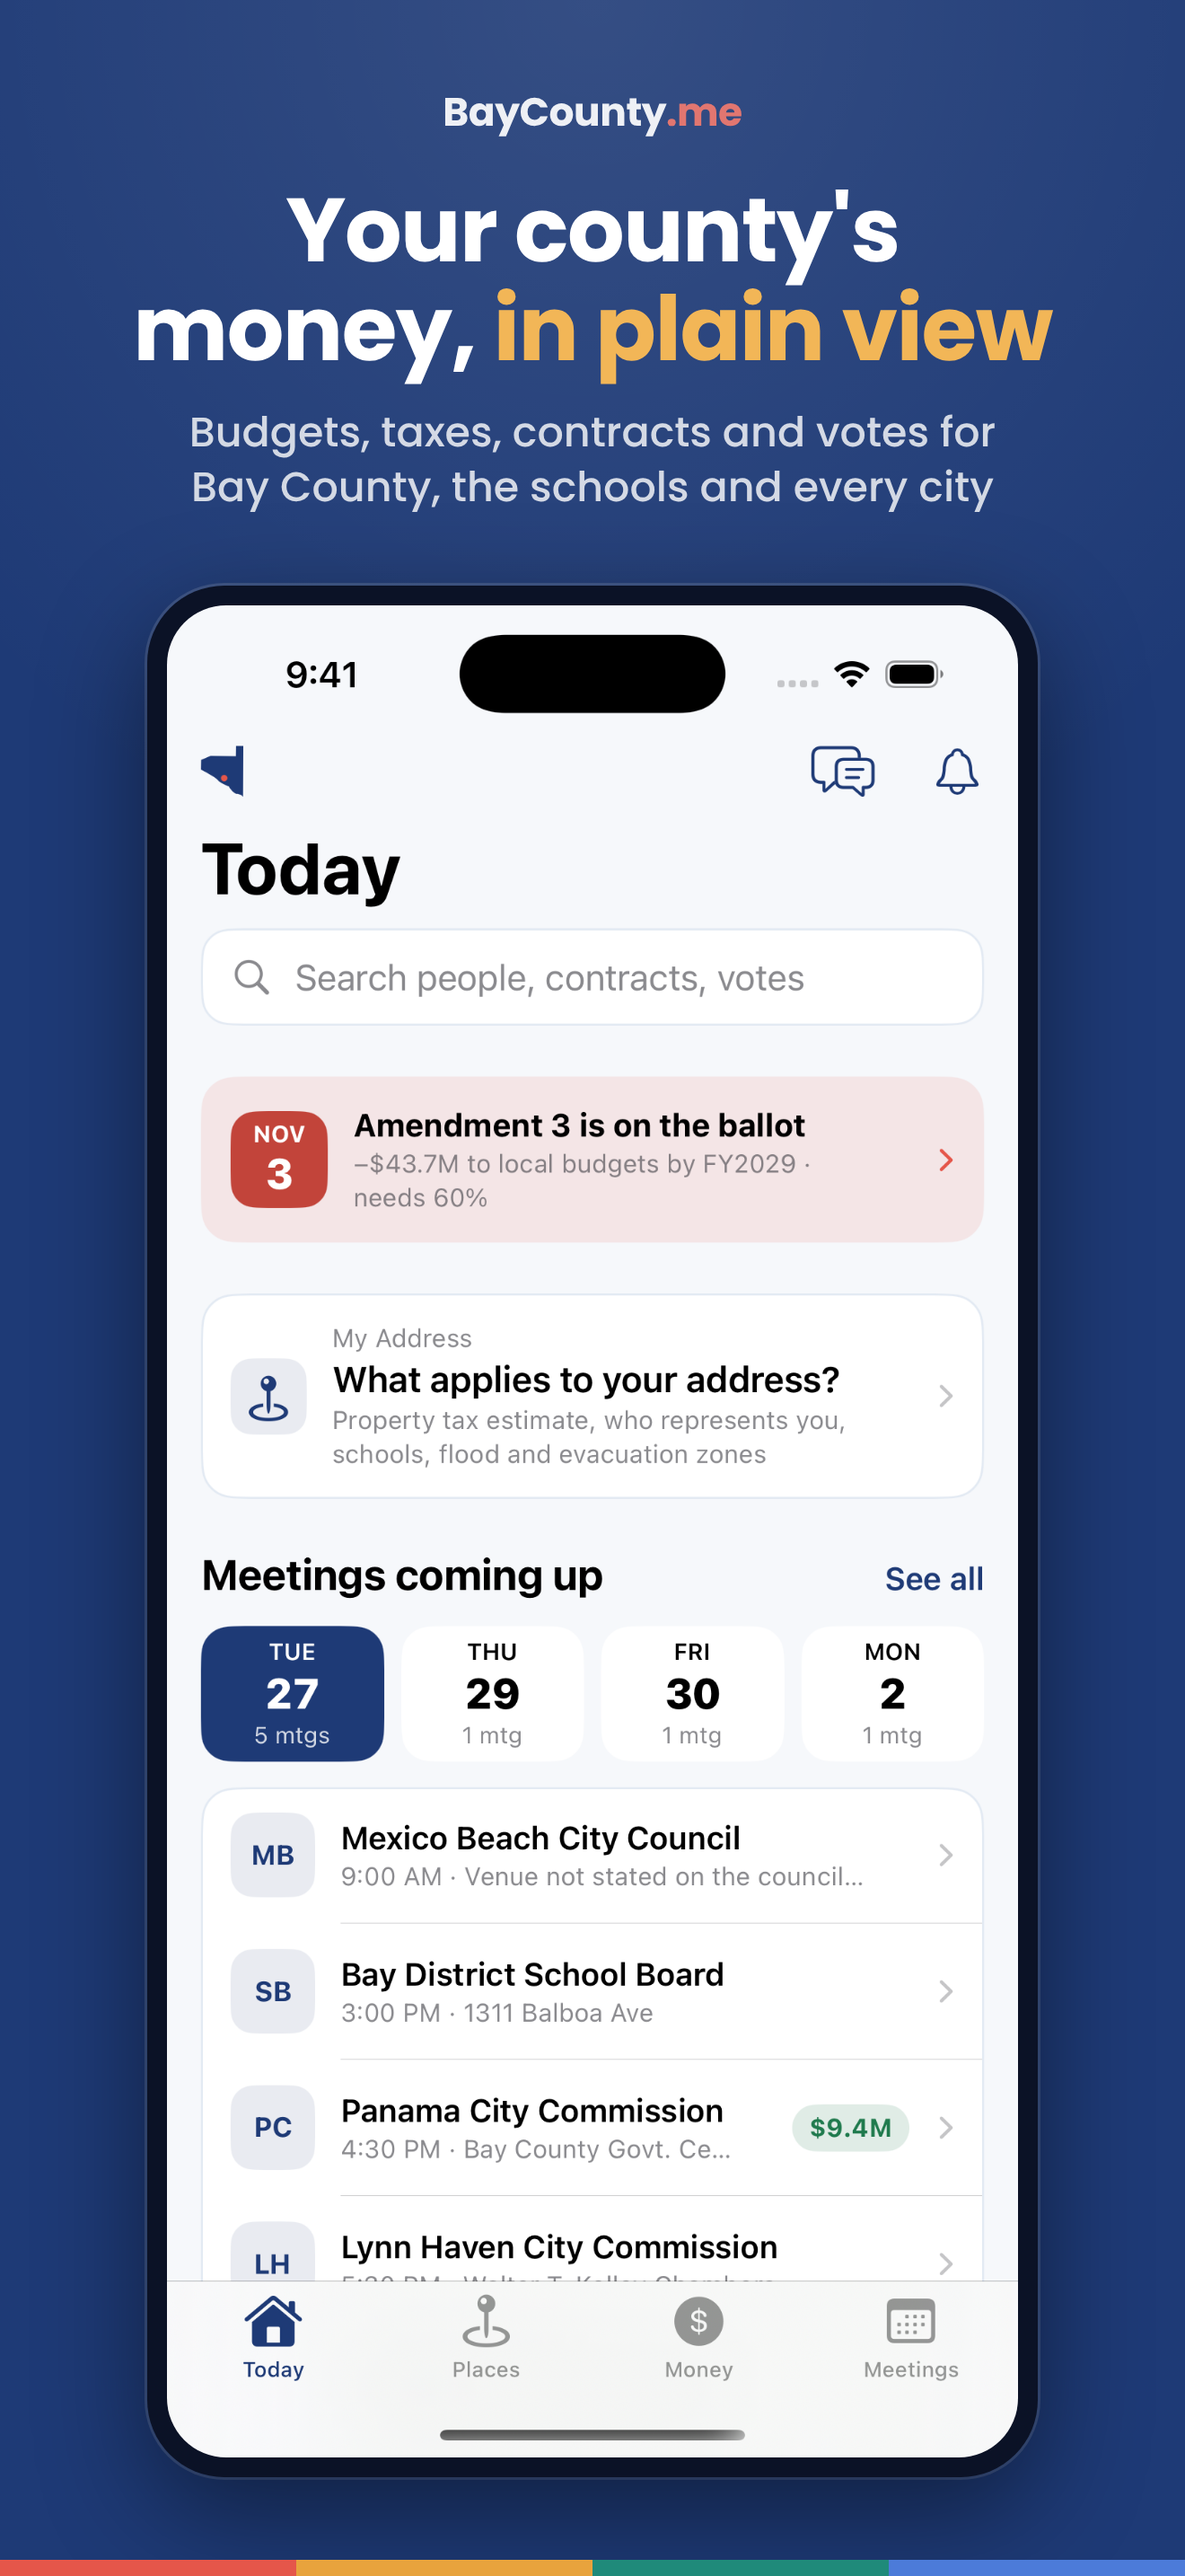
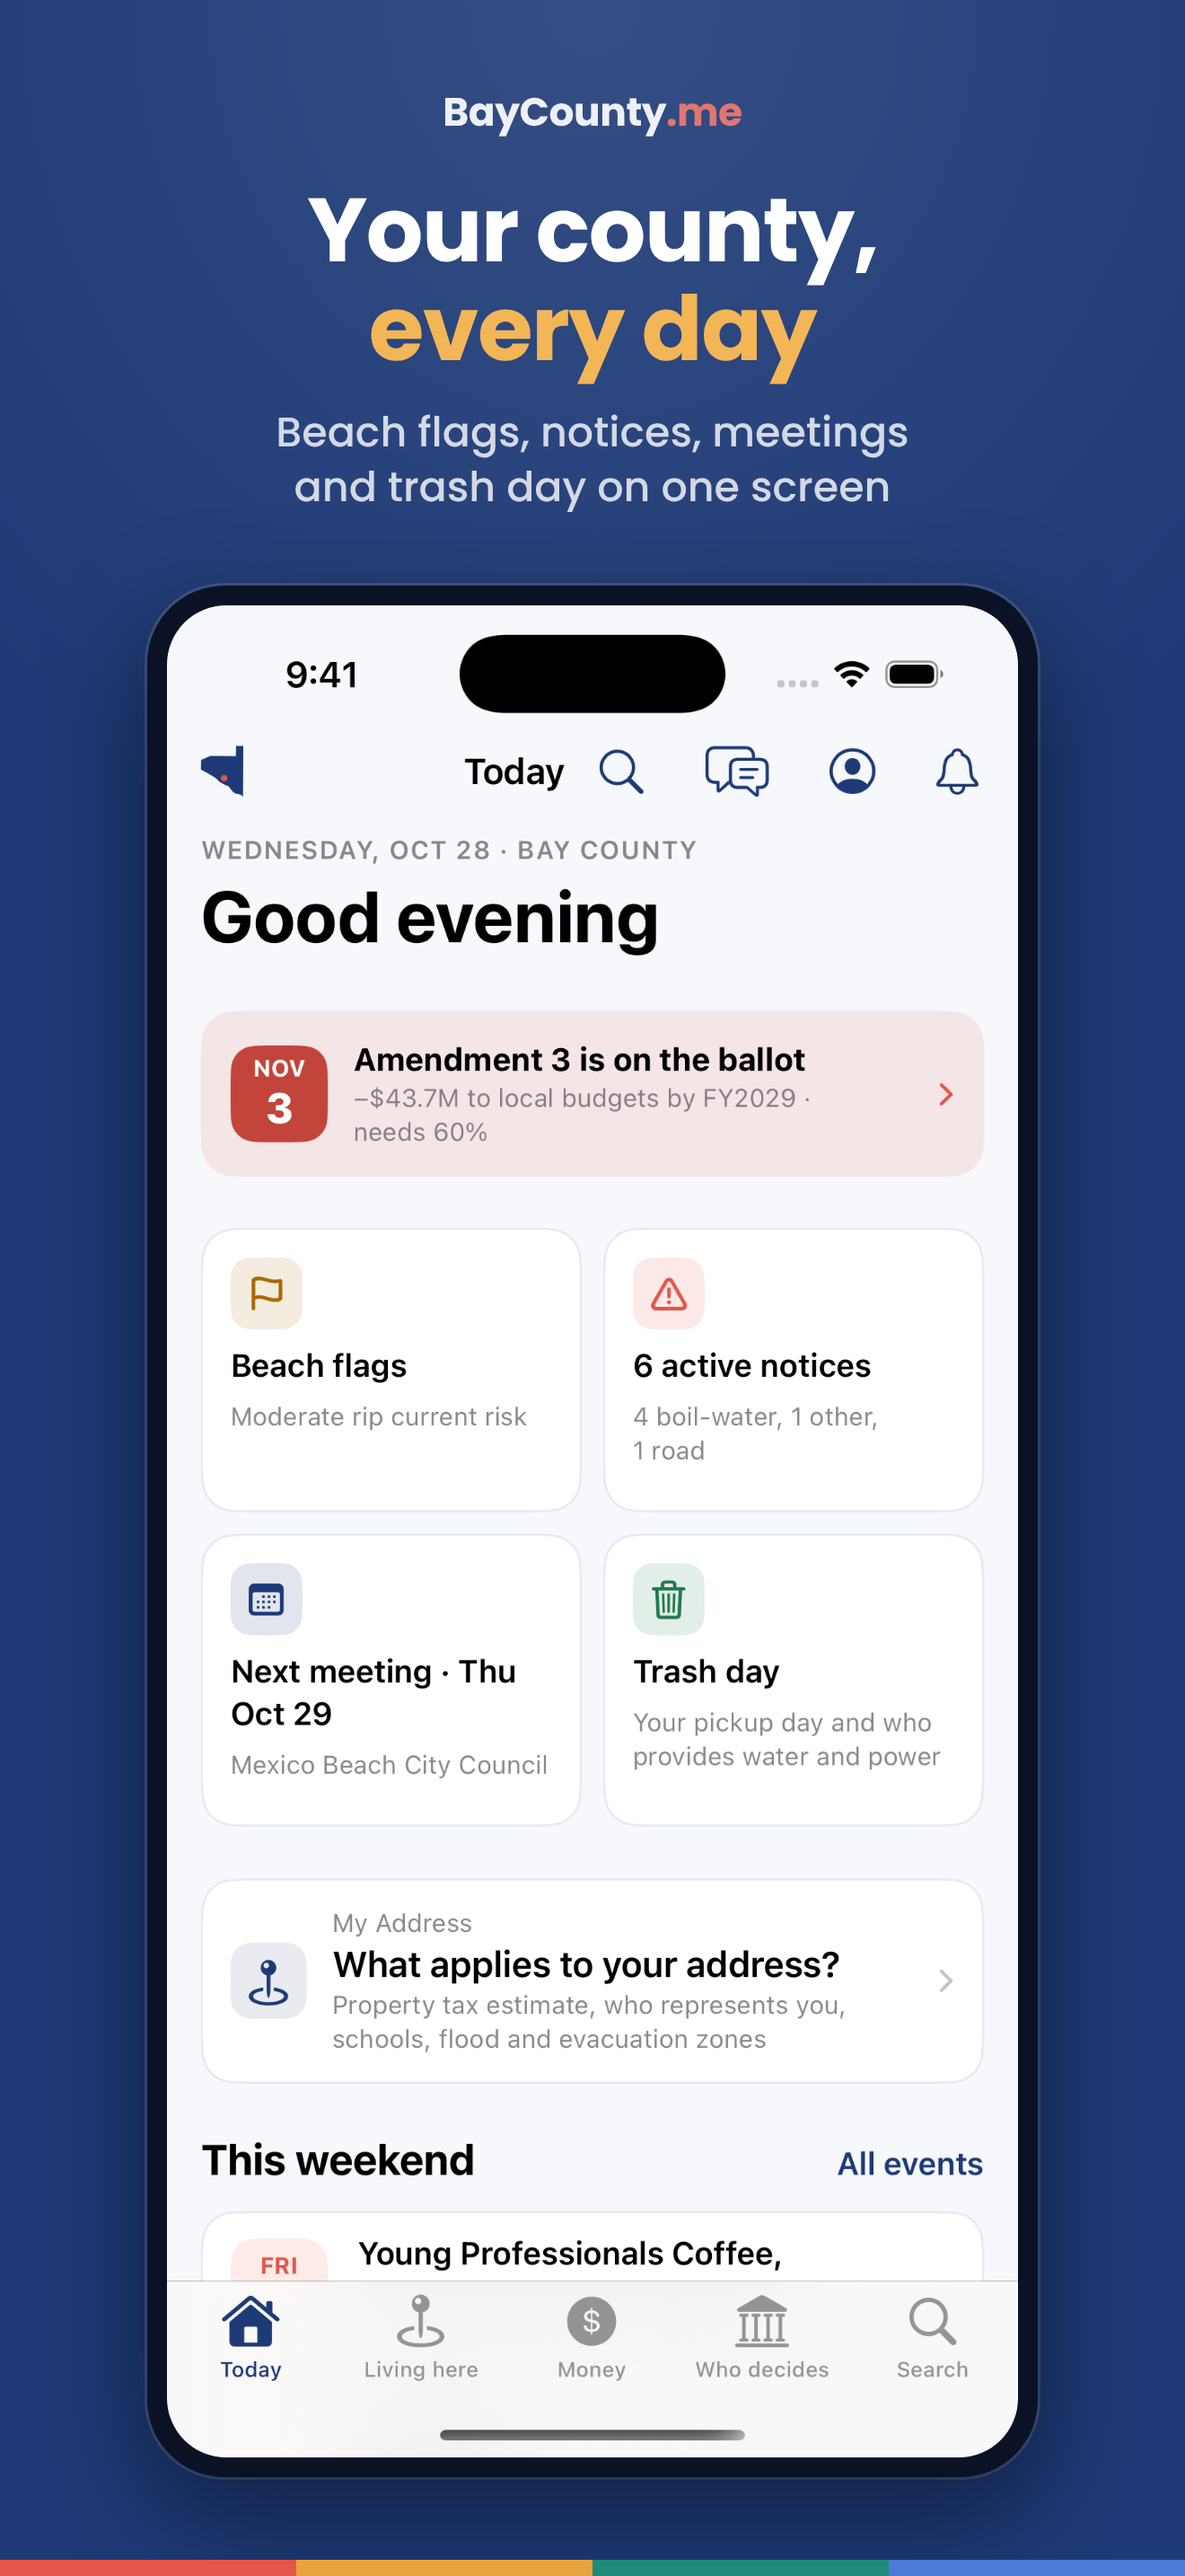
Store listings after the redesign: new description, subtitle, privacy answers and iPhone screenshots
- Description follows the new About page (My home, Living here, Your money, Who decides,
  Elections), same text on both stores; subtitle 'Everything Bay County, sourced'.
- App Privacy: the optional My home account collects email, first name and home address
  (linked, app functionality, no tracking), matching PrivacyInfo.xcprivacy. Review notes
  explain the emailed-code sign-in and in-app account deletion.
- 9 new 6.9-inch iPhone screenshots from the current app: Today, My home, Living here,
  restaurants, beaches, tax bill, meetings, an official, contracts.
- Android emulator script also shoots myhome, restaurants, beaches, parks, events and
  emergency, so the Play set can match.

Proof: ios/store/screenshots (from iOS screenshots run 40797988878 on 88d79153)

Claude-Session: https://claude.ai/code/session_01HUBaQrnQzc4wmcUB5UGrtg

diff --git a/ios/store/listing.md b/ios/store/listing.md
@@ -8,7 +8,7 @@ Paste these into App Store Connect > BayCounty.me > App Store (iOS app, version 
 | Field | Value |
 |---|---|
 | Name (30) | BayCounty.me |
-| Subtitle (30) | Local budgets, taxes and votes |
+| Subtitle (30) | Everything Bay County, sourced |
 | Primary category | Reference |
 | Secondary category | News |
 | Content rights | Yes, it shows third-party content, and you have the rights: Florida public records (Chapter 119), credited to their source |
@@ -20,42 +20,52 @@ Paste these into App Store Connect > BayCounty.me > App Store (iOS app, version 
 **Promotional text (170).** Can be changed any time without a new build.
 
 ```
-See where Bay County's money goes: your tax bill, budgets, contracts, votes, campaign money and meetings for the county, schools and every city. Every number is sourced.
+Your home, your county: alerts near your address, beaches, parks, restaurant inspections, your tax bill, budgets, contracts, votes and meetings. Every number is sourced.
 ```
 
 **Description (4,000)**
 
 ```
-BayCounty.me puts Bay County, Florida public records in plain view: budgets, property taxes, contracts, votes, campaign money and meetings, for the county, the school district and every city. Every figure comes from a public record and links to its source.
+BayCounty.me is an independent, free app that puts Bay County, Florida public records in one place, in plain language. It covers all nine local governments: Bay County, Bay District Schools, Panama City, Panama City Beach, Lynn Haven, Callaway, Springfield, Parker and Mexico Beach.
 
-WHAT YOU CAN DO
+MY HOME
 
-• Look up your address and see every government that taxes it, your officials and the meetings that affect you.
-• Work out your property tax bill slice by slice: schools, the county, your city, fire and special districts.
-• See the next public meetings across Bay County, read the agenda items and add a meeting to your calendar.
-• Compare Bay County, Panama City, Panama City Beach, Lynn Haven, Callaway, Springfield, Parker, Mexico Beach and the school district side by side.
-• Follow the money: spending, contracts, the companies that get them, debt, audits and CRA (redevelopment) spending.
-• See who's in charge, with photos of current officials, how they voted and who held each seat since 2016.
-• Check campaign money for local races, totaled by candidate, and which donors also hold government contracts.
-• Search people, companies, contracts and votes from one box.
+• Save your home to see what's happening nearby: meetings, road and building projects, public notices and events.
+• Get phone alerts for emergencies and boil-water notices that reach your address.
 
-PLAIN AND SOURCED
+LIVING HERE
 
-Spent, committed and budgeted money are kept apart, so plans are never counted as payments. Totals count each dollar once. Data goes back to 2016 and updates as governments publish new records, without an app update.
+• Look up any address for its tax bill, schools, trash day, officials and nearby projects.
+• Restaurant inspections, new businesses, beaches, parks, events, government jobs, emergency alerts and hurricane prep.
 
-INDEPENDENT
+YOUR MONEY
 
-BayCounty.me is an independent public records project by Flux Labs in Panama City, Florida. It is not made by or for any government agency. Data comes from public records published by Bay County, its cities, Bay District Schools, the Supervisor of Elections and the State of Florida.
+• Budgets by year, tax rates and fees, contracts and vendors, CRA and sales tax spending, and Hurricane Michael recovery.
+• An accountability console that follows major projects from approval to final cost.
 
-PRIVATE
+WHO DECIDES
 
-No account, no ads, no tracking. If you choose "Use my location", it is used on your phone once to find your address and is never sent to us. A saved home address stays on your phone.
+• Every elected official and department leader, their pay, how they voted and their campaign gifts.
+• The business and nonprofit ties between people, companies and governments.
+
+ELECTIONS AND GETTING INVOLVED
+
+• Your ballot, where and when to vote, and results since 2016.
+• Meetings with agendas and minutes, one tap to your calendar, public notices and records requests.
+
+WHERE IT COMES FROM
+
+Every figure comes from a public record: budgets, audits, meeting agendas and minutes, campaign finance reports, state business filings, map layers and state inspection data. Each one links to its source, and records go back to 2016. New records are added every day, without an app update.
+
+INDEPENDENT AND PRIVATE
+
+BayCounty.me is built and run by Flux Labs in Panama City. It is not run by, and does not speak for, any government, and isn't paid for by any government, candidate or campaign. No ads and no tracking. An account is optional: sign in with a code sent to your email to save your home and get alerts, and delete it in the app at any time. "Use my location" is used once on your phone and never sent to us.
 ```
 
 **Keywords (100).** Commas, no spaces. The name and subtitle words are already indexed, so they're left out.
 
 ```
-panama city,lynn haven,callaway,parker,florida,government,property tax,contracts,commission,school
+panama city,lynn haven,callaway,florida,alerts,beach,restaurants,property tax,contracts,parks
 ```
 
 | Field | Value |
@@ -67,26 +77,28 @@ panama city,lynn haven,callaway,parker,florida,government,property tax,contracts
 
 ## App Review information
 
-- Sign-in required: **No**.
+- Sign-in required: **No**. Leave "Sign-in required" unchecked: the app works fully without an account, and the optional My home account signs in with a one-time code sent to any email address (no password), so reviewers can use their own email.
 - Contact: Jeremy, hello@fluxlabs.net, your phone number.
 - Notes:
 
 ```
-BayCounty.me is a free, read-only guide to public records for Bay County, Florida. No account or sign-in. All data is published public records (budgets, contracts, votes, meetings, campaign finance reports) from Bay County, its cities, the school district, the Supervisor of Elections and the State of Florida; each record links to its source. The app is independent and is not affiliated with any government. Location is optional: "Use my location" on the My Address card finds the nearest address once and does not store or send it. To try address features, use 825 Ohio Ave, Lynn Haven.
+BayCounty.me is a free, read-only guide to public records for Bay County, Florida. No account or sign-in. All data is published public records (budgets, contracts, votes, meetings, campaign finance reports) from Bay County, its cities, the school district, the Supervisor of Elections and the State of Florida; each record links to its source. The app is independent and is not affiliated with any government. An account is optional: My home > Sign in sends a one-time code to any email address, then lets you save a home address and turn on alerts for emergencies and boil-water notices near it. The account can be deleted in the app (My home > Settings > Delete account). Location is optional: "Use my location" finds the nearest address once and does not store or send it. To try address features, use 825 Ohio Ave, Lynn Haven.
 ```
 
 ## App Privacy (the "nutrition label")
 
-Accounts are optional (My home). Answer **"Yes, we collect data from this app"** and declare only these, each
-**linked to the user**, **not used for tracking**, purpose **App Functionality**:
+The optional My home account means the app now **collects data**. Answer "Yes, we collect data from this app",
+then add these three types. For each: **linked to the user**, **not used for tracking**, purpose **App Functionality** only.
 
-- **Contact Info → Email Address** (to sign in and, if the resident opts in, the Monday email and alerts)
-- **Contact Info → Physical Address** (the saved home, to show and send what's near it)
-- **Contact Info → Name** (optional first name, used in the greeting)
+| Category | Data type | Why |
+|---|---|---|
+| Contact Info | Email Address | Sign-in code and home emails |
+| Contact Info | Name | The optional first name on the account |
+| Contact Info | Physical Address | The saved home, used to find what's nearby |
 
-Nothing else: no analytics or ads; location used to find the nearest address stays on the device; dataset downloads
-and searches aren't tied to a person or kept. Without an account nothing is collected. This matches
-`PrivacyInfo.xcprivacy` and https://baycounty.me/privacy.
+Nothing else: no location (it's used on the phone and not sent), no identifiers, usage data, diagnostics or ads.
+This matches `PrivacyInfo.xcprivacy` and https://baycounty.me/privacy. Account deletion is in the app
+(My home > Settings > Delete account), which Apple requires for any app with account sign-up.
 
 ## Age rating answers
 
@@ -94,7 +106,8 @@ Every content question (violence, sexual content, profanity, drugs, gambling, ho
 **None**. Then:
 
 - Unrestricted web access: **No** (pages open in Safari view from baycounty.me links; there's no browser or address bar).
-- User-generated content, messaging or chat: **No**.
+- Messaging or chat: **No** (alerts are one-way notices from us).
+- User-generated content: **No**.
 - Advertising: **No**.
 - Parental controls, age assurance: **No**.
 
@@ -108,5 +121,5 @@ Expected rating: **4+**.
 
 ## Screenshots
 
-`screenshots/` holds the 6.9" iPhone set (1320 × 2868), which App Store Connect scales down for every
+`screenshots/` holds the 6.9" iPhone set (9 shots, 1320 × 2868), which App Store Connect scales down for every
 smaller iPhone. Upload in order; the first three show in search results.

diff --git a/android/store/listing.md b/android/store/listing.md
@@ -8,34 +8,44 @@ BayCounty.me
 
 ## Short description (80 characters max)
 
-Bay County budgets, taxes, contracts, votes and meetings, with sources.
+Alerts near your home, beaches, restaurants, taxes, budgets and votes, sourced.
 
 ## Full description (4,000 characters max)
 
-BayCounty.me puts Bay County, Florida public records in plain view: budgets, property taxes, contracts, votes, campaign money and meetings, for the county, the school district and every city. Every figure comes from a public record and links to its source.
+BayCounty.me is an independent, free app that puts Bay County, Florida public records in one place, in plain language. It covers all nine local governments: Bay County, Bay District Schools, Panama City, Panama City Beach, Lynn Haven, Callaway, Springfield, Parker and Mexico Beach.
 
-WHAT YOU CAN DO
+MY HOME
 
-• Look up your address and see every government that taxes it, your officials and what's planned nearby.
-• Work out your property tax bill slice by slice: schools, the county, your city, fire and special districts.
-• See the next public meetings across Bay County, read the agenda items and add a meeting to your calendar.
-• Compare Bay County, Panama City, Lynn Haven, Callaway, Springfield, Parker, Mexico Beach, Panama City Beach and the school district side by side.
-• Follow the money: spending, contracts, the companies that get them, debt, audits and CRA (redevelopment) spending.
-• See who's in charge, with photos of current officials, how they voted and who held each seat since 2016.
-• Check campaign money for local races, totaled by candidate, and which donors also hold government contracts.
-• Search people, companies, contracts and votes from one box.
+• Save your home to see what's happening nearby: meetings, road and building projects, public notices and events.
+• Get phone alerts for emergencies and boil-water notices that reach your address.
 
-PLAIN AND SOURCED
+LIVING HERE
 
-Spent, committed and budgeted money are kept apart, so plans are never counted as payments. Totals count each dollar once. Data goes back to 2016 and updates as governments publish new records, without an app update.
+• Look up any address for its tax bill, schools, trash day, officials and nearby projects.
+• Restaurant inspections, new businesses, beaches, parks, events, government jobs, emergency alerts and hurricane prep.
 
-INDEPENDENT
+YOUR MONEY
 
-BayCounty.me is an independent public records project by Flux Labs in Panama City, Florida. It is not made by or for any government agency. Data comes from public records published by Bay County, its cities, the Bay District Schools, the Supervisor of Elections and the State of Florida.
+• Budgets by year, tax rates and fees, contracts and vendors, CRA and sales tax spending, and Hurricane Michael recovery.
+• An accountability console that follows major projects from approval to final cost.
 
-PRIVATE
+WHO DECIDES
 
-No account, no ads, no tracking. If you choose "Use my location", it is used on your phone once to find your address and is never sent to us. A saved home address stays on your phone.
+• Every elected official and department leader, their pay, how they voted and their campaign gifts.
+• The business and nonprofit ties between people, companies and governments.
+
+ELECTIONS AND GETTING INVOLVED
+
+• Your ballot, where and when to vote, and results since 2016.
+• Meetings with agendas and minutes, one tap to your calendar, public notices and records requests.
+
+WHERE IT COMES FROM
+
+Every figure comes from a public record: budgets, audits, meeting agendas and minutes, campaign finance reports, state business filings, map layers and state inspection data. Each one links to its source, and records go back to 2016. New records are added every day, without an app update.
+
+INDEPENDENT AND PRIVATE
+
+BayCounty.me is built and run by Flux Labs in Panama City. It is not run by, and does not speak for, any government, and isn't paid for by any government, candidate or campaign. No ads and no tracking. An account is optional: sign in with a code sent to your email to save your home and get alerts, and delete it in the app at any time. "Use my location" is used once on your phone and never sent to us.
 
 ## Category
 
@@ -46,6 +56,7 @@ Education (or News & Magazines)
 - Email: hello@fluxlabs.net
 - Website: https://baycounty.me
 - Privacy policy: https://baycounty.me/privacy
+- Delete account URL (Data safety asks for one): https://baycounty.me/account (sign in, then Delete account)
 
 ## Graphics
 
